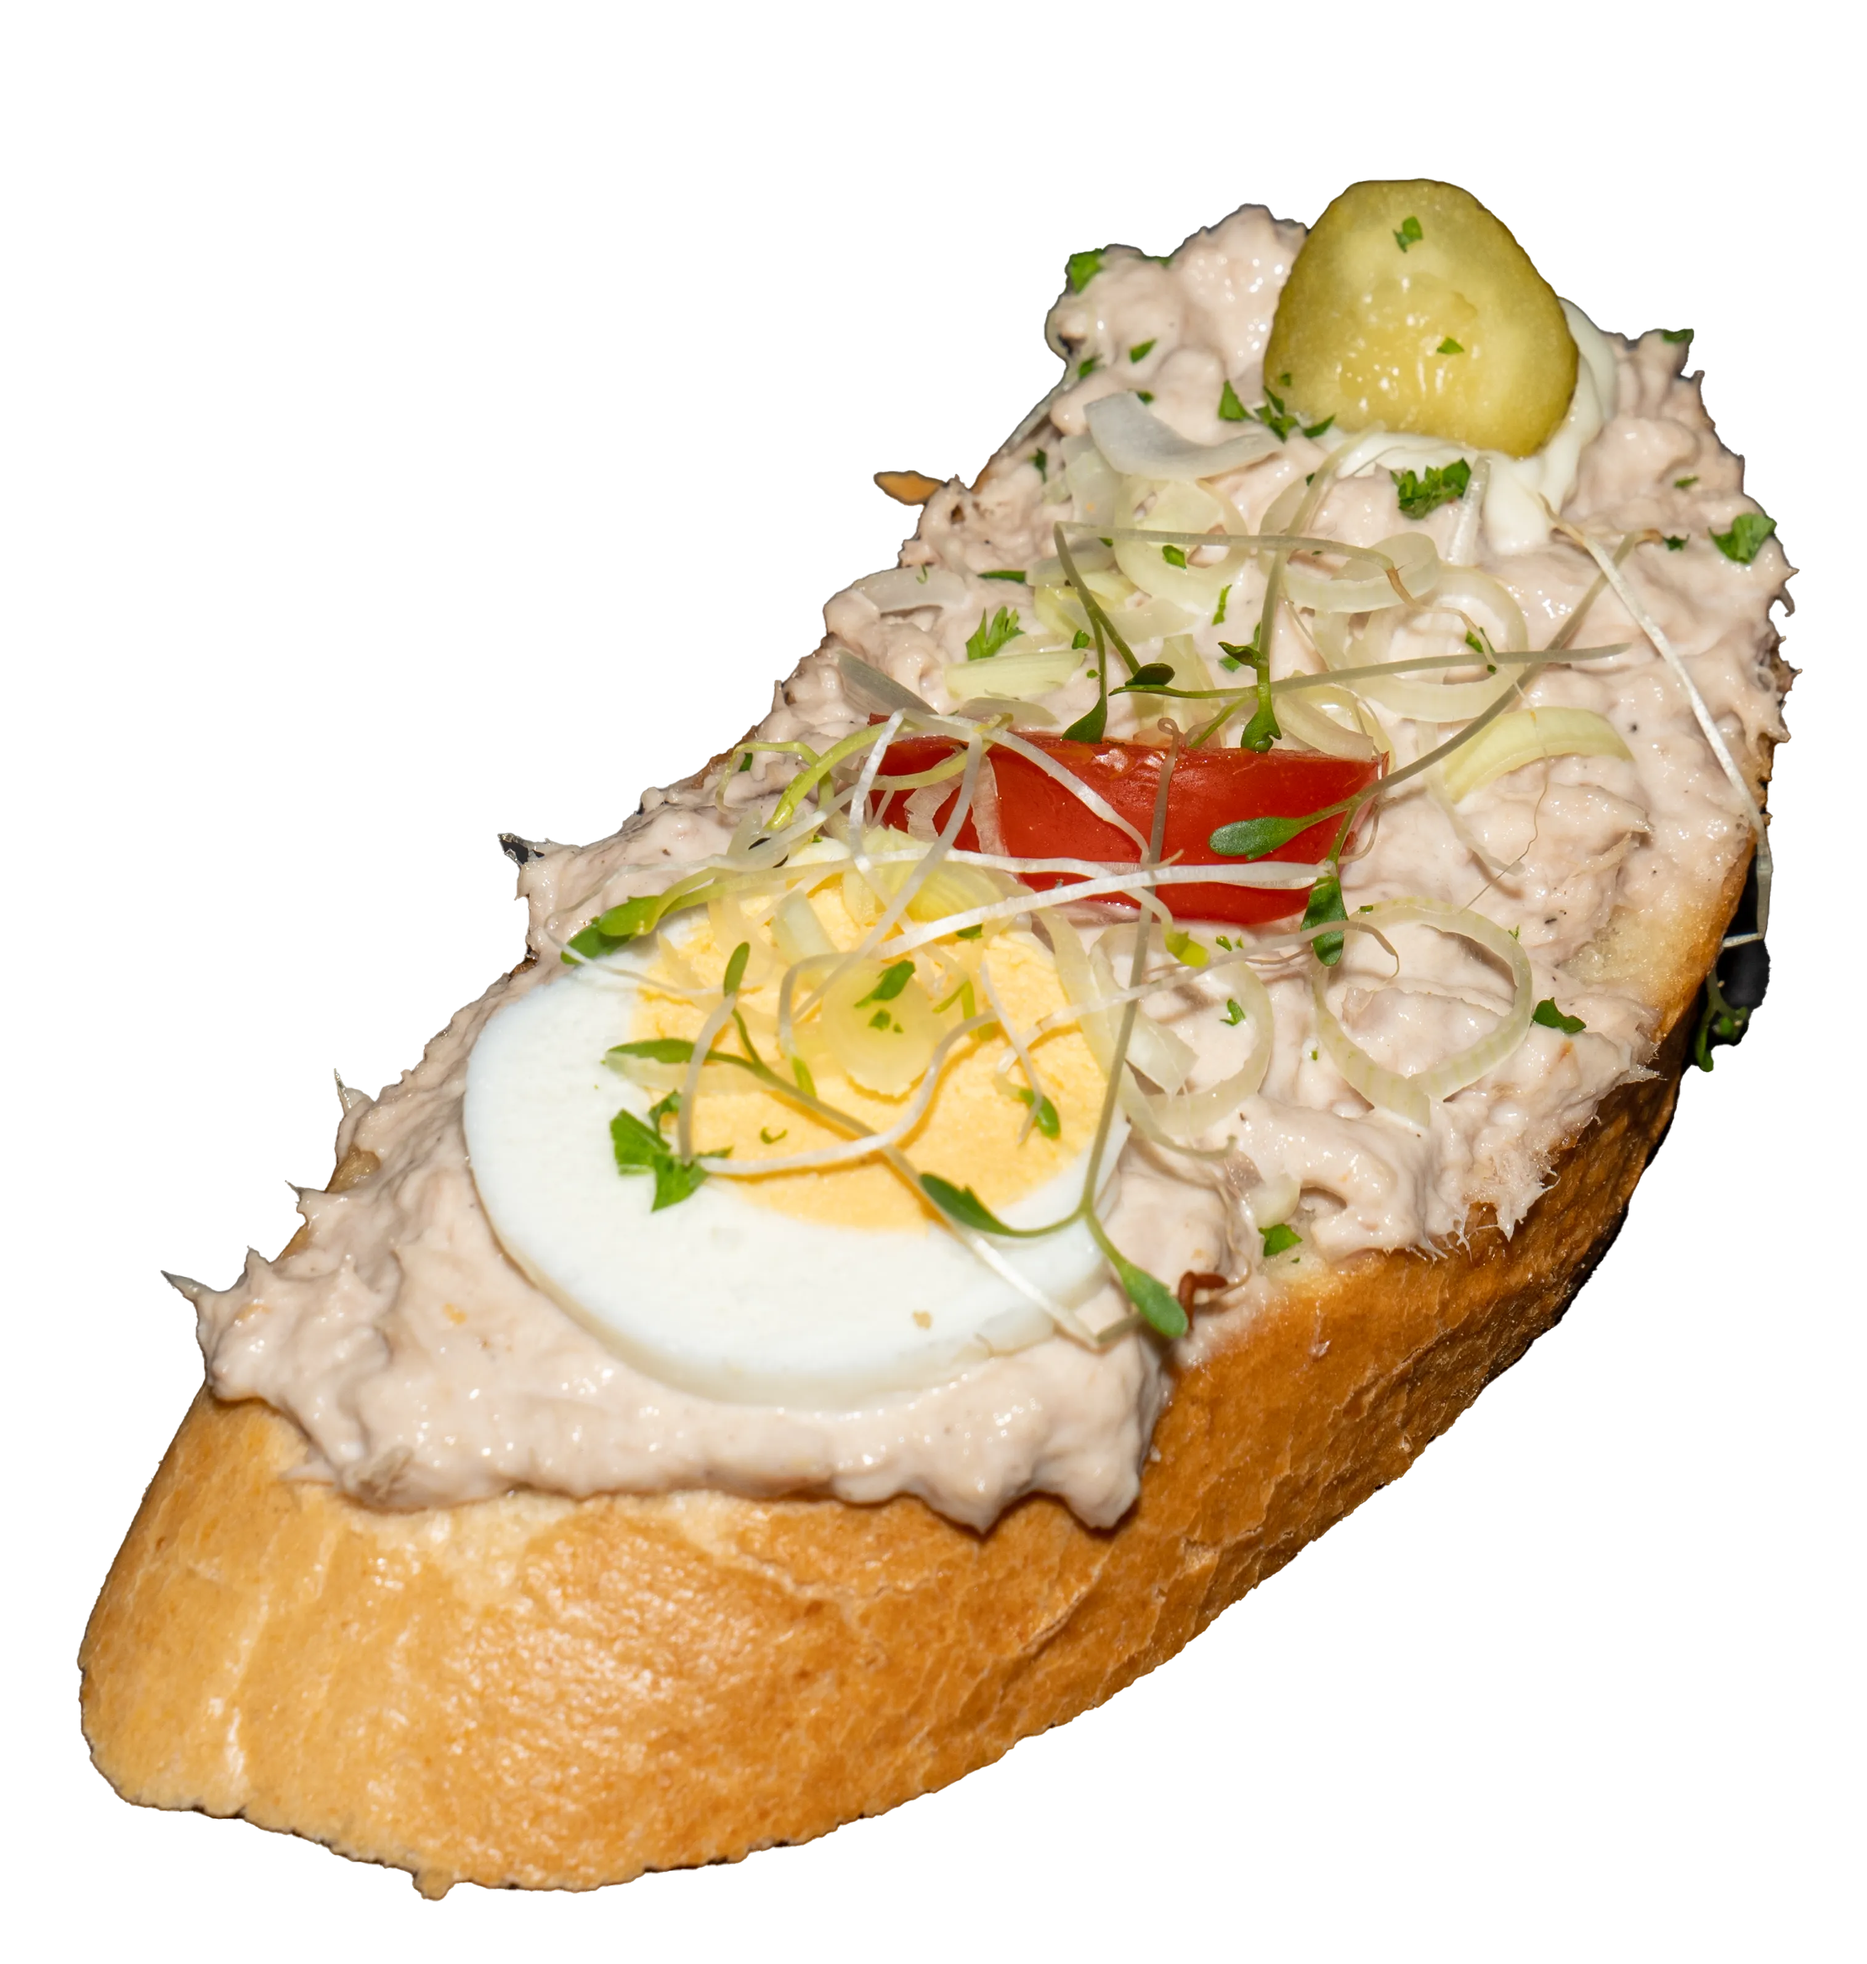
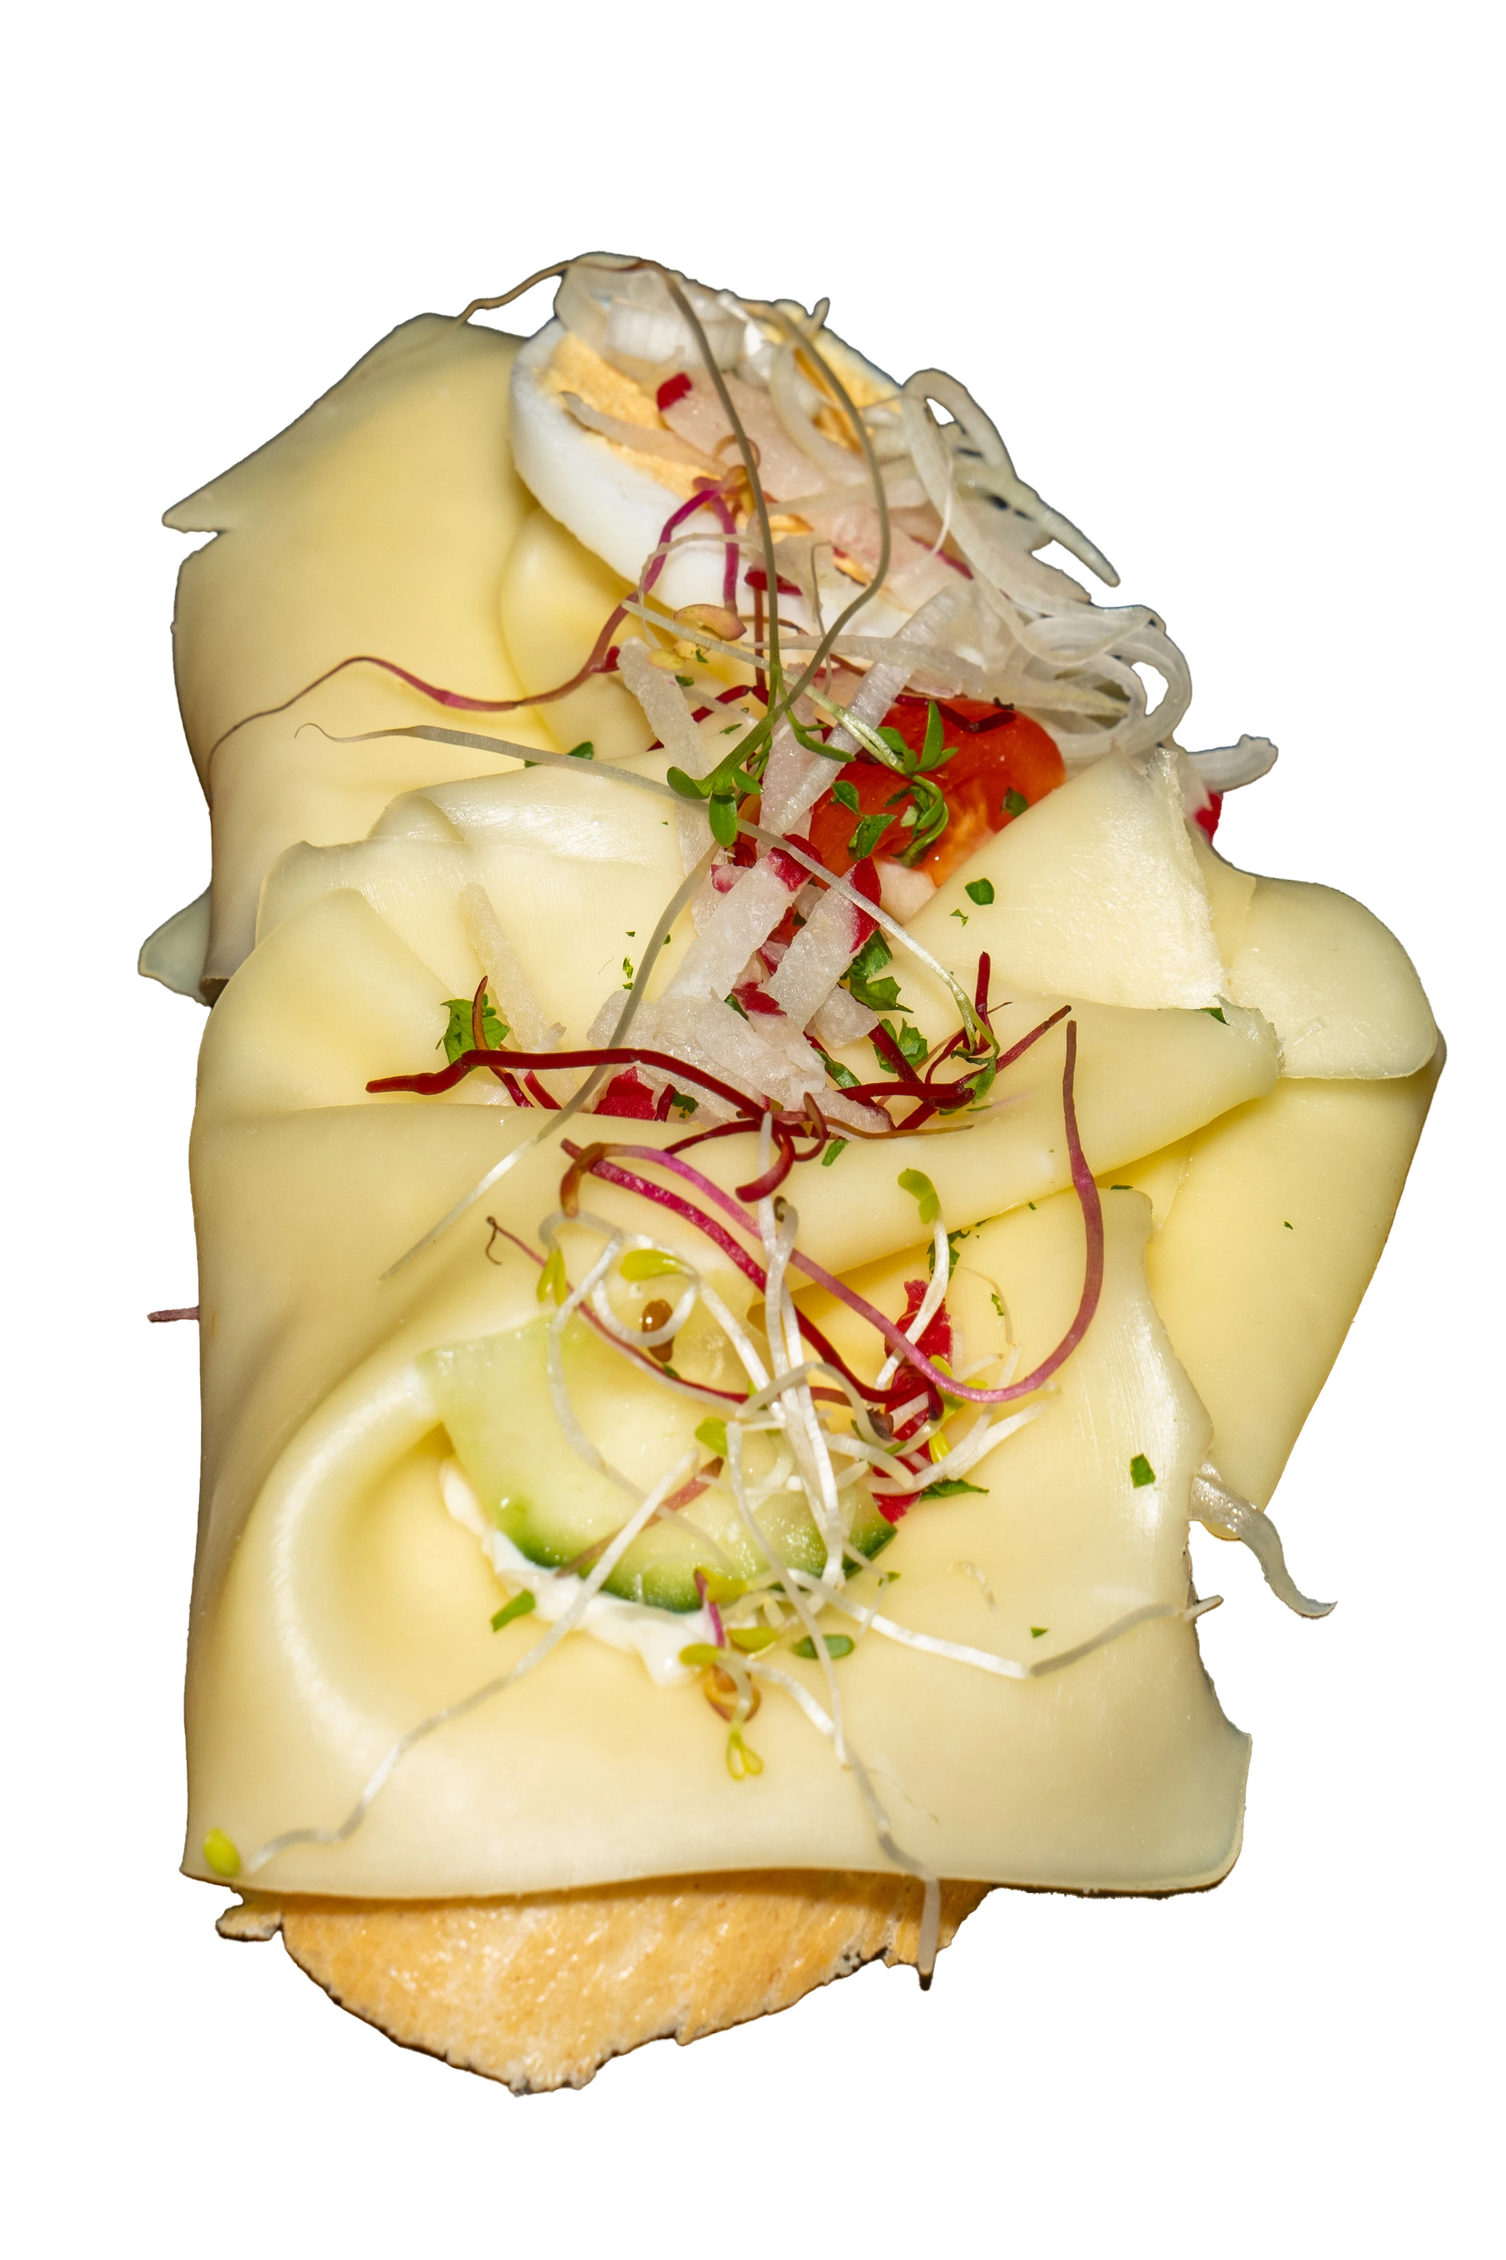
stakeholders tasks completed (ASG removed, NEW: Zimtschnecken added, kaesebrot right pic implemented, kinder buene implemented and kinderriegel removed)
IMPORTANT: YAML-Delete implemented

diff --git a/index.html b/index.html
@@ -101,7 +101,7 @@
                           
                             <div class="home-buttons">
                               <a href="https://www.google.com/maps/place//data=!4m2!3m1!1s0x476d07ed57384769:0x7e1fc0d488b1257b?sa=X&ved=1t:8290&ictx=111" target="_blank" rel="noopener noreferrer"  class="button">Standort ansehen</a>
-                              <a class="button2 button--flex" onclick="nextSlide()">Nächster Standort <i class='bx bx-right-arrow-alt button-icon'></i></a>
+                              <a class="button2 button--flex" onclick="nextSlide()">Nächster Standort<i class='bx bx-right-arrow-alt button-icon'></i></a>
                             </div>                          
                         </div>
                     </div>
@@ -114,31 +114,7 @@
                             <img src="assets/img/home2-img.webp" alt="" class="home-img">
                         </div>
                         <div class="home-data">
-                            <h3 class="home-subtitle">Eisgenuss mit Flair</h3>
-                            <h1 class="home-title">Anton-Sattler-Gasse</h1>
-                            <p class="home-description">Hier erhalten sie unsere Eisspezialitäten zum Mitnehmen. 
-                                Unser zweiter Standort versorgt euch ebenfalls mit dem besten Eis. 
-                                Wenn Sie eine Auswahl verschiedener Sorten, entweder für daheim oder als Gastgeschenk, mitnehmen möchten, haben wir für Sie gut isolierende Styropor-Boxen.
-                                Überzeugen Sie sich selbst!
-                                <br>
-                                <a href="a-hours.html" class="hours-link">Öffnungszeiten ansehen <i class='bx bx-right-arrow-alt button-icon'></i></a>
-                            </p>
-                            <div class="home-buttons">
-                                <a href="https://www.google.com/maps/place/Eismacherei2/@48.2533904,16.4422112,17z/data=!3m1!4b1!4m6!3m5!1s0x476d0766b53f8ffd:0x9d3963683cf928d3!8m2!3d48.2533904!4d16.4422112!16s%2Fg%2F11w2686xq0?entry=ttu&g_ep=EgoyMDI1MDQyMy4wIKXMDSoJLDEwMjExNDU1SAFQAw%3D%3D" target="_blank" rel="noopener noreferrer" class="button">Standort ansehen</a>
-                                <a class="button2" class="button--link button--flex" onclick="nextSlide()">Nächster Standort <i class='bx bx-right-arrow-alt button-icon'></i></a>
-                            </div>
-                        </div>
-                    </div>
-                </section>
-        
-                <!-- HOME PAGE 3 -->
-                <section class="home-page">
-                    <div class="home-content grid">
-                        <div class="home-group">
-                            <img src="assets/img/home3-img.webp" alt="" class="home-img home-img2">
-                        </div>
-                        <div class="home-data">
-                            <h3 class="home-subtitle">Sportplatz</h3>
+                            <h3 class="home-subtitle">Sportplatz - KSV Siemens</h3>
                             <h1 class="home-title">Auszeit 21</h1>
                             <p class="home-description">Kommen sie gerne zu unserem neuen Standort. Hier können Sie sich sportlich austoben. Nicht nur für KSV-Siemens-Mitarbeiter!</p>
                             <div class="home-buttons">
@@ -149,8 +125,19 @@
                     </div>
                 </section>
             </div>
-        </section>
-        
+                <br>
+                    <!--  HOME PAGE: NEW CONTENT  -->
+
+                <div class="new-container container grid">
+                    <div class="new-data">
+                        <h2 class="new-title">ZIMTSCHNECKEN FREITAG !</h2>
+                        <p class="new-subtitle">Jeden Freitag um 12 Uhr</p>
+                        <a href="https://www.google.com/maps/place//data=!4m2!3m1!1s0x476d07ed57384769:0x7e1fc0d488b1257b?sa=X&ved=1t:8290&ictx=111" target="_blank" rel="noopener noreferrer"  class="button">Weiter zum Mergenthalerplatz</a>
+                    </div>
+
+                    <img src="assets/img/new-img.webp" alt="" class="new-img" id="zimtschnecken-bild">
+                </div>
+        </section>       
             
             <!--   CATEGORY   -->
             <section class="section category" id="category">
@@ -231,7 +218,7 @@
                         </button>
                     </div>
 
-                    <!-- SPEISEKARTE DOWNLOAD -->
+                    <!-- SPEISEKARTE DOWNLOAD ==> DERZEIT DEAKTIVIERT ==> REAKTIVIEREN??
                     <section class="section speisekarte" id="speisekarte">
                         <h2 class="section-title">Unsere Speisekarte</h2>
 
@@ -242,17 +229,7 @@
                         </div>
                     </section>
 
-                    <!--LAYOUT
-                    
-                    <div class="angebot-content">
-                        <img src="assets/img/angebot6-img.webp" alt="" class="angebot-img">
-                        <h3 class="angebot-title">Ghost</h3>
-                        <span class="angebot-subtitle">Accessory</span>    
-                        <span class="angebot-price">$00.00</span>
-                        <button class="button angebot-button">
-                            <i class='bx bx-category angebot-icon'></i>
-                        </button>
-                    </div>-->
+                    -->
                 </div>
             </section>
             
@@ -343,7 +320,7 @@
                             <li><a href="#angebot" class="footer-link">Produkte</a></li>
                             <li><a href="#discount" class="footer-link">Gutscheine</a></li>
                             <li><a href="https://www.foodora.at/restaurant/n01k/die-eismacherei-mergenthalerplatz" target="_blank" rel="noopener noreferrer" class="footer-link">Foodora</a></li>
-                            <li><a href="https://www.lieferando.at/speisekarte/eismacherei" target="_blank" rel="noopener noreferrer" class="footer-link">Lieferando</a></li>
+                            <!--<li><a href="https://www.lieferando.at/speisekarte/eismacherei" target="_blank" rel="noopener noreferrer" class="footer-link">Lieferando</a></li>-->
                             <li><a href="https://wolt.com/en/aut/vienna/venue/eismacherei" target="_blank" rel="noopener noreferrer" class="footer-link">Wolt</a></li>
                           </ul>
                         </nav>

diff --git a/assets/css/styles.css b/assets/css/styles.css
@@ -396,6 +396,51 @@ input{
 .hours-link:hover {
   color: var(--first-color-alt);
 }
+/*  NEW  */
+.new-container{
+  background: var(--container-color);
+  border-radius: 1rem;
+  padding: 2.5rem 0 1.5rem;
+  row-gap: .75rem;
+}
+
+.new-data{
+  text-align: center;
+}
+
+.new-title{
+  font-size: var(--h2-font-size);
+  margin-bottom: var(--mb-2);
+}
+
+.new-subtitle {
+  font-size: 1.2rem;
+  font-weight: 500;
+  color: #700049;
+  margin-bottom: 1rem;
+  text-align: center;
+}
+
+
+.new-img{
+  width: 200px;
+  justify-self: center;
+}
+
+.new-img {
+  transition: transform 0.3s;
+}
+
+.new-container:hover .new-img {
+  transform: translateY(-0.5rem);
+}
+
+#zimtschnecken-bild {
+  width: 160px;
+  height: auto;
+  border-radius: 20px;
+  object-fit: cover;
+}
 
 
 /*  BUTTONS  */
@@ -783,6 +828,22 @@ input{
   .home-img{
     height: 300px;
   }
+
+    .new-container{
+    grid-template-columns: repeat(2, max-content);
+    justify-content: center;
+    align-items: center;
+    column-gap: 3rem;
+    padding: 3rem 0;
+    border-radius: 3rem;
+  }
+  .new-img{
+    width: 350px;
+    order: -1;
+  }
+  .new-data{
+    padding-right: 6rem;
+  }
   .swiper-pagination{
     margin-top: var(--mb-2);
   }
@@ -900,6 +961,9 @@ input{
   .home-description{
     margin-bottom: var(--mb-2-5);
     padding-right: 2rem;
+  }
+  .new-container{
+    column-gap: 7rem;
   }
 
   .category-container{

diff --git a/m-hours.html b/m-hours.html
@@ -34,8 +34,8 @@
         </div>          
 
       <div class="hours-content">
-        <p>März, April und Oktober – Dezember</p>
-        <h3 class="hours-time">10 bis 20 Uhr</h3>
+        <p>März, April und Oktober</p>
+        <h3 class="hours-time">12 bis 20 Uhr</h3>
 
         <p>Mai  , September</p>
         <h3 class="hours-time">10 bis 21 Uhr</h3>
@@ -45,6 +45,9 @@
 
         <p>Juli, August</p>
         <h3 class="hours-time">10 bis 22 Uhr</h3>
+
+        <p>November, Dezember, Januar, Februar</p>
+        <h3 class="hours-time">12 bis 18 Uhr</h3>
       </div>
 
       <div id="status" style="margin-top: 2rem; font-size: 1.2rem; font-weight: bold;"></div> <!--Öffnungszeiten-->
@@ -62,8 +65,8 @@
       let openHour = 0;
       let closeHour = 0;
 
-      if ([2, 3, 9, 10, 11].includes(month)) { 
-        openHour = 10;
+      if ([2, 3, 9].includes(month)) { 
+        openHour = 12;
         closeHour = 20;
       } else if ([4, 8].includes(month)) {
         openHour = 10;
@@ -74,6 +77,9 @@
       } else if ([6, 7].includes(month)) {
         openHour = 10;
         closeHour = 22;
+      } else if ([10, 11, 0, 1].includes(month)) {
+        openHour = 12;
+        closeHour = 18;
       } else {
         document.getElementById('status').innerText = "Geschlossen";
         return;
